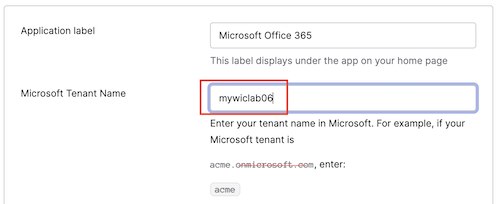
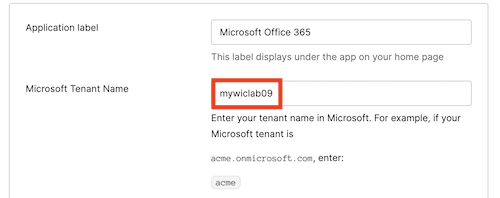
O365 updates

diff --git a/03-o365-integration.md b/03-o365-integration.md
@@ -13,44 +13,54 @@ Okta maintains a specific integration for Microsoft Office 365 in the Okta Integ
 
 ### General Settings
 
->**Tip:** For the next step, you will need the first part of your **Office 365 Tenant** from the lab launch panel.
-![tenant name](images/011/launch_O365_tenant_240.png "Tenant Name")
-Be sure to leave off the *onmicrosoft.com* portion.
+1. In the **Launch Panel**, copy your **Office 365 Tenant** name.
+   |||
+   |:-----|:-----|
+   |![Office 365 tenant ](images/011/launch_o365_tenant_only_240.png "O365 Lab Tenant")| |
 
-1. In the **General Settings** tab, set **Microsoft Tenant Name** to your Office 365 tenant name for the lab.
+1. In the **General Settings** tab, set **Microsoft Tenant Name** to your **Office 365 Tenant** name   . Be sure to remove the *.on.microsoft.com* portion.
 
-    ![App Defintion Tenant Name](images/011/app_o365_general_tenant_name_500.png "App Defintion Tenant Name")
+    |||
+   |:-----|:-----|
+    |![App Defintion Tenant Name](images/011/app_o365_general_tenant_name_500.png "App Defintion Tenant Name")|
 1. Optional. For **Display the following links**, deselect all but: **Word, Excel, PowerPoint and Office Portal**.
 1. Scroll down and click **Next**.
 
 ### Sign-On Options
 
 1. In the **Sign On Options** tab, select **WS-Federation**.
+    |||
+   |:-----|:-----|
+    |![WS-Federation](images/011/app_o365_select_federation_240.png "WS-Federation   ")|
 1. Set the **Office 365 Admin Username** and **Office 365 Admin password** to the values from the lab launch panel.
 1. Click **Fetch and Select**. This will display a list of your Office 365 Domains.
 
-    ![Fetch and Select](images/011/app_o365_signon_wsfed_500.png "Fetch and Select")
+    |||
+   |:-----|:-----|
+    |![Fetch and Select](images/011/app_o365_signon_wsfed_500.png "Fetch and Select")|
 
 10. Select the **Office 365 Domain** that corresponds to the **Domain Name** in your lab launch panel.
 
-> **Hint:**  Don't select the domain that ends in *onmicrosoft.com*.
+    |||
+    |:-----|:-----|
+    |![Select Domain](images/011/app_o365_signon_domain_select_500.png "Select Domain")|
 
-![Select Domain](images/011/app_o365_signon_domain_select_500.png "Select Domain")
+>**Hint:**  Don't select the domain that ends in *onmicrosoft.com*.
 
 ### Customization with Okta Expression Language
 
-1. In the Credential Details section, for **Application username format** select **Custom**.
+1. In the **Credential Details** section, for **Application username format** select **Custom**.
 1. For the **Custom** expression, enter the following, sample expression:
 
     ```javascript
     String.substringBefore(user.login,"@") + "@nn.mywiclab.com"
     ```
 
-1. **IMPORTANT:** Be sure to replace  **nn.mywiclab.com** in the expression with your unique **Domain Name**.
+1. **IMPORTANT:** Be sure to replace  **nn.mywiclab.com** in the expression with your unique **Office 365 Domain Name** from the launch panel.
 
-|Note:   ||
-   |:-----|:-----|
-   ![Custom Expression](images/011/app_o365_custom_expression.png "Custom Expression")| The expression for the **Custom Application username format** transforms the new employee's email address domain to the Office 365 Domain you selected for federation.|
+    |||
+    |:-----|:-----|
+    |![Custom Expression](images/011/app_o365_custom_expression_600.png "Custom Expression")||
 
 4. Click **Done**.
 
@@ -69,14 +79,18 @@ Accounts in Azure AD can be managed via Microsoft APIs. To enable provisioning, 
 1. In the **Microsoft Office 365** app definition, select the **Provisioning** tab.
 1. Click **Configure API Integration**.
 
-    ![Configure API Integration](images/009/image09_600.png "Configure API Integration")
+    |||
+    |:-----|:-----|
+    |![Configure API Integration](images/009/image09_600.png "Configure API Integration")|
 
 1. Select **Enable API integration**.
 1. Click **Authenticate with Microsoft Office 365**.
 
-    ![Authenticate with Microsoft Office 365](images/009/image010_600.png "Authenticate with Microsoft Office 365")
+    |||
+    |:-----|:-----|
+    |![Authenticate with Microsoft Office 365](images/009/image010_600.png "Authenticate with Microsoft Office 365")|
 
-1. Authenticate as the lab admin user for your Microsoft tenant.
+1. Authenticate using the credentials for your Microsoft tenant from the launch panel.
 1. On the **Permissions Requested** dialog, click **Accept** to grant the permissions requested by the Okta Microsoft Graph Client.
 1. Click **Save**.
 
@@ -84,27 +98,24 @@ The API connection for provisioning is now in place. Provisioning configuration 
 
 There are two provisioning directions supported by this integration.
 
-### Enable provisioning to app
+### Enable provisioning from Okta to App
 
 In this section you will enable provisioning to Microsoft 365. This will include creation of accounts in Azure AD when users are assigned to the app, updating attributes in Azure AD when things change in Okta, and deactivating accounts in Azure AD when users are unassigned from the app in Okta.
 
-> **Note:** In general, Okta does not delete accounts from apps - it only deactivates them. This ensures that Okta is not responsible for any data loss in the backend system that could be triggered by deleting an account.
-
-Follow these steps to enable provisioning:
-
-1. Verify that you are still in the **Microsoft Office 365** app definition.
 1. On the **Provisioning** tab, under **Settings**, select **To App**.
 1. Click **Edit** to set the options for provisioning from Okta to Office 365.
-
-    ![Provisioning to O365](images/011/app_o365_to_app_600.png "Provisioning to O365")
+    |||
+    |:-----|:-----|
+    |![Provisioning to O365](images/011/app_o365_to_app_600.png "Provisioning to O365")|
 
 1. For **Office 365 Provisioning Type**  select **Universal Sync**.
 1. For **Create Users**, select **Enable**.
 1. For **Update User Attributes**, select **Enable**.
 1. For **Deactivate Users**, select **Enable**.
 1. Click **Save**.
-
- ![Enable Create, Update, Deactivate](images/011/app_o365_to_app_enable_500.png "Enable Create, Update, Deactivate")
+    |||
+    |:-----|:-----|
+    |![Enable Create, Update, Deactivate](images/011/app_o365_to_app_enable_500.png "Enable Create, Update, Deactivate")|
 
 |||
    |:-----|:-----|
@@ -143,15 +154,20 @@ The application is now assigned to members of the **App-Office365-ProPlus** grou
 
 You will now assign the new employee to the *App-Office365-ProPlus* group. This will cause the user to be assigned the Microsoft Office 365 app which, in turn, will trigger provisioning of an account.
 
-1. In the Admin Console select **Directory** > **Groups**.
-1. Find and select the **App-Office365-ProPlus** group.
-1. On the **People** click **Assign people**.
+1. On the **Assignments** tab, select the **App-Office365-ProPlus** group.
+    |||
+     |:-----|:-----|
+     |![Select group](images/011/app_o365_group_select_500.png "Select Group") ||
 
-    ![Assign people](images/009/image040_600.png "Assign people")
+1. On the **People** tab, click **Assign people**.
+    |||
+    |:-----|:-----|
+    |![Assign people](images/009/image040_600.png "Assign people")|
 
 1. Find your *new employee*, and then click the **+** icon on the right to assign them to the group.
-
-    ![Find new employee](images/011/group_assign_user_600.png "Find new employee")
+    |||
+    |:-----|:-----|
+    |![Find new employee](images/011/group_assign_user_600.png "Find new employee")|
 
 1. Click **Done**.
 
@@ -161,19 +177,20 @@ The new employee is now a member of the group and will be assigned the Microsoft
 
 In your **Virtual Desktop**, test single sign-on to Microsoft Office 365 for your new employee.
 
-1. Open a new browser window that is not signed in to Okta or Microsoft.
-1. Enter the sign-in URL to your Okta org. You can copy this value from the launch panel.
+1. Open a new browser window, and enter your Workforce Identity Cloud **Tenant** into the address bar. You can copy this value from the launch panel.
 
 1. Authenticate as the new employee.
 1. Click the **Microsoft Office 365 Word Online** app.
-
-    ![Microsoft Office 365 Word Online](images/009/image043_600.png "Microsoft Office 365 Word Online")
+    |||
+    |:-----|:-----|
+    |![Microsoft Office 365 Word Online](images/011/okta_end_user_dashboard_new_employee_500.png "Microsoft Office 365 Word Online")|
 
 1. Click **Yes** to stay signed in.
 1. In the top-right corner of the page, click the identity icon.
 1. Click **Sign out** to clear the session, and then close the browser tab.
-
-    ![Sign out](images/009/image045_600.png "Sign out")
+    |||
+    |:-----|:-----|
+    |![Sign out](images/011/o365_word_sign_out_500.png "Sign out")|
 
 8. Sign out the new employee from Okta
 

diff --git a/09-self-service.md b/09-self-service.md
@@ -1,3 +1,9 @@
+## Old O365
+
+>**Tip:** For the next step, you will need the first part of your **Office 365 Tenant** from the lab launch panel.
+![tenant name](images/011/launch_O365_tenant_240.png "Tenant Name")
+Be sure to leave off the *onmicrosoft.com* portion.
+
 ## Old New Employee
 
    >**Tip:** Check your **Office 365 Domain Name** in the launch panel; you will need this value for the new employee's email address.
